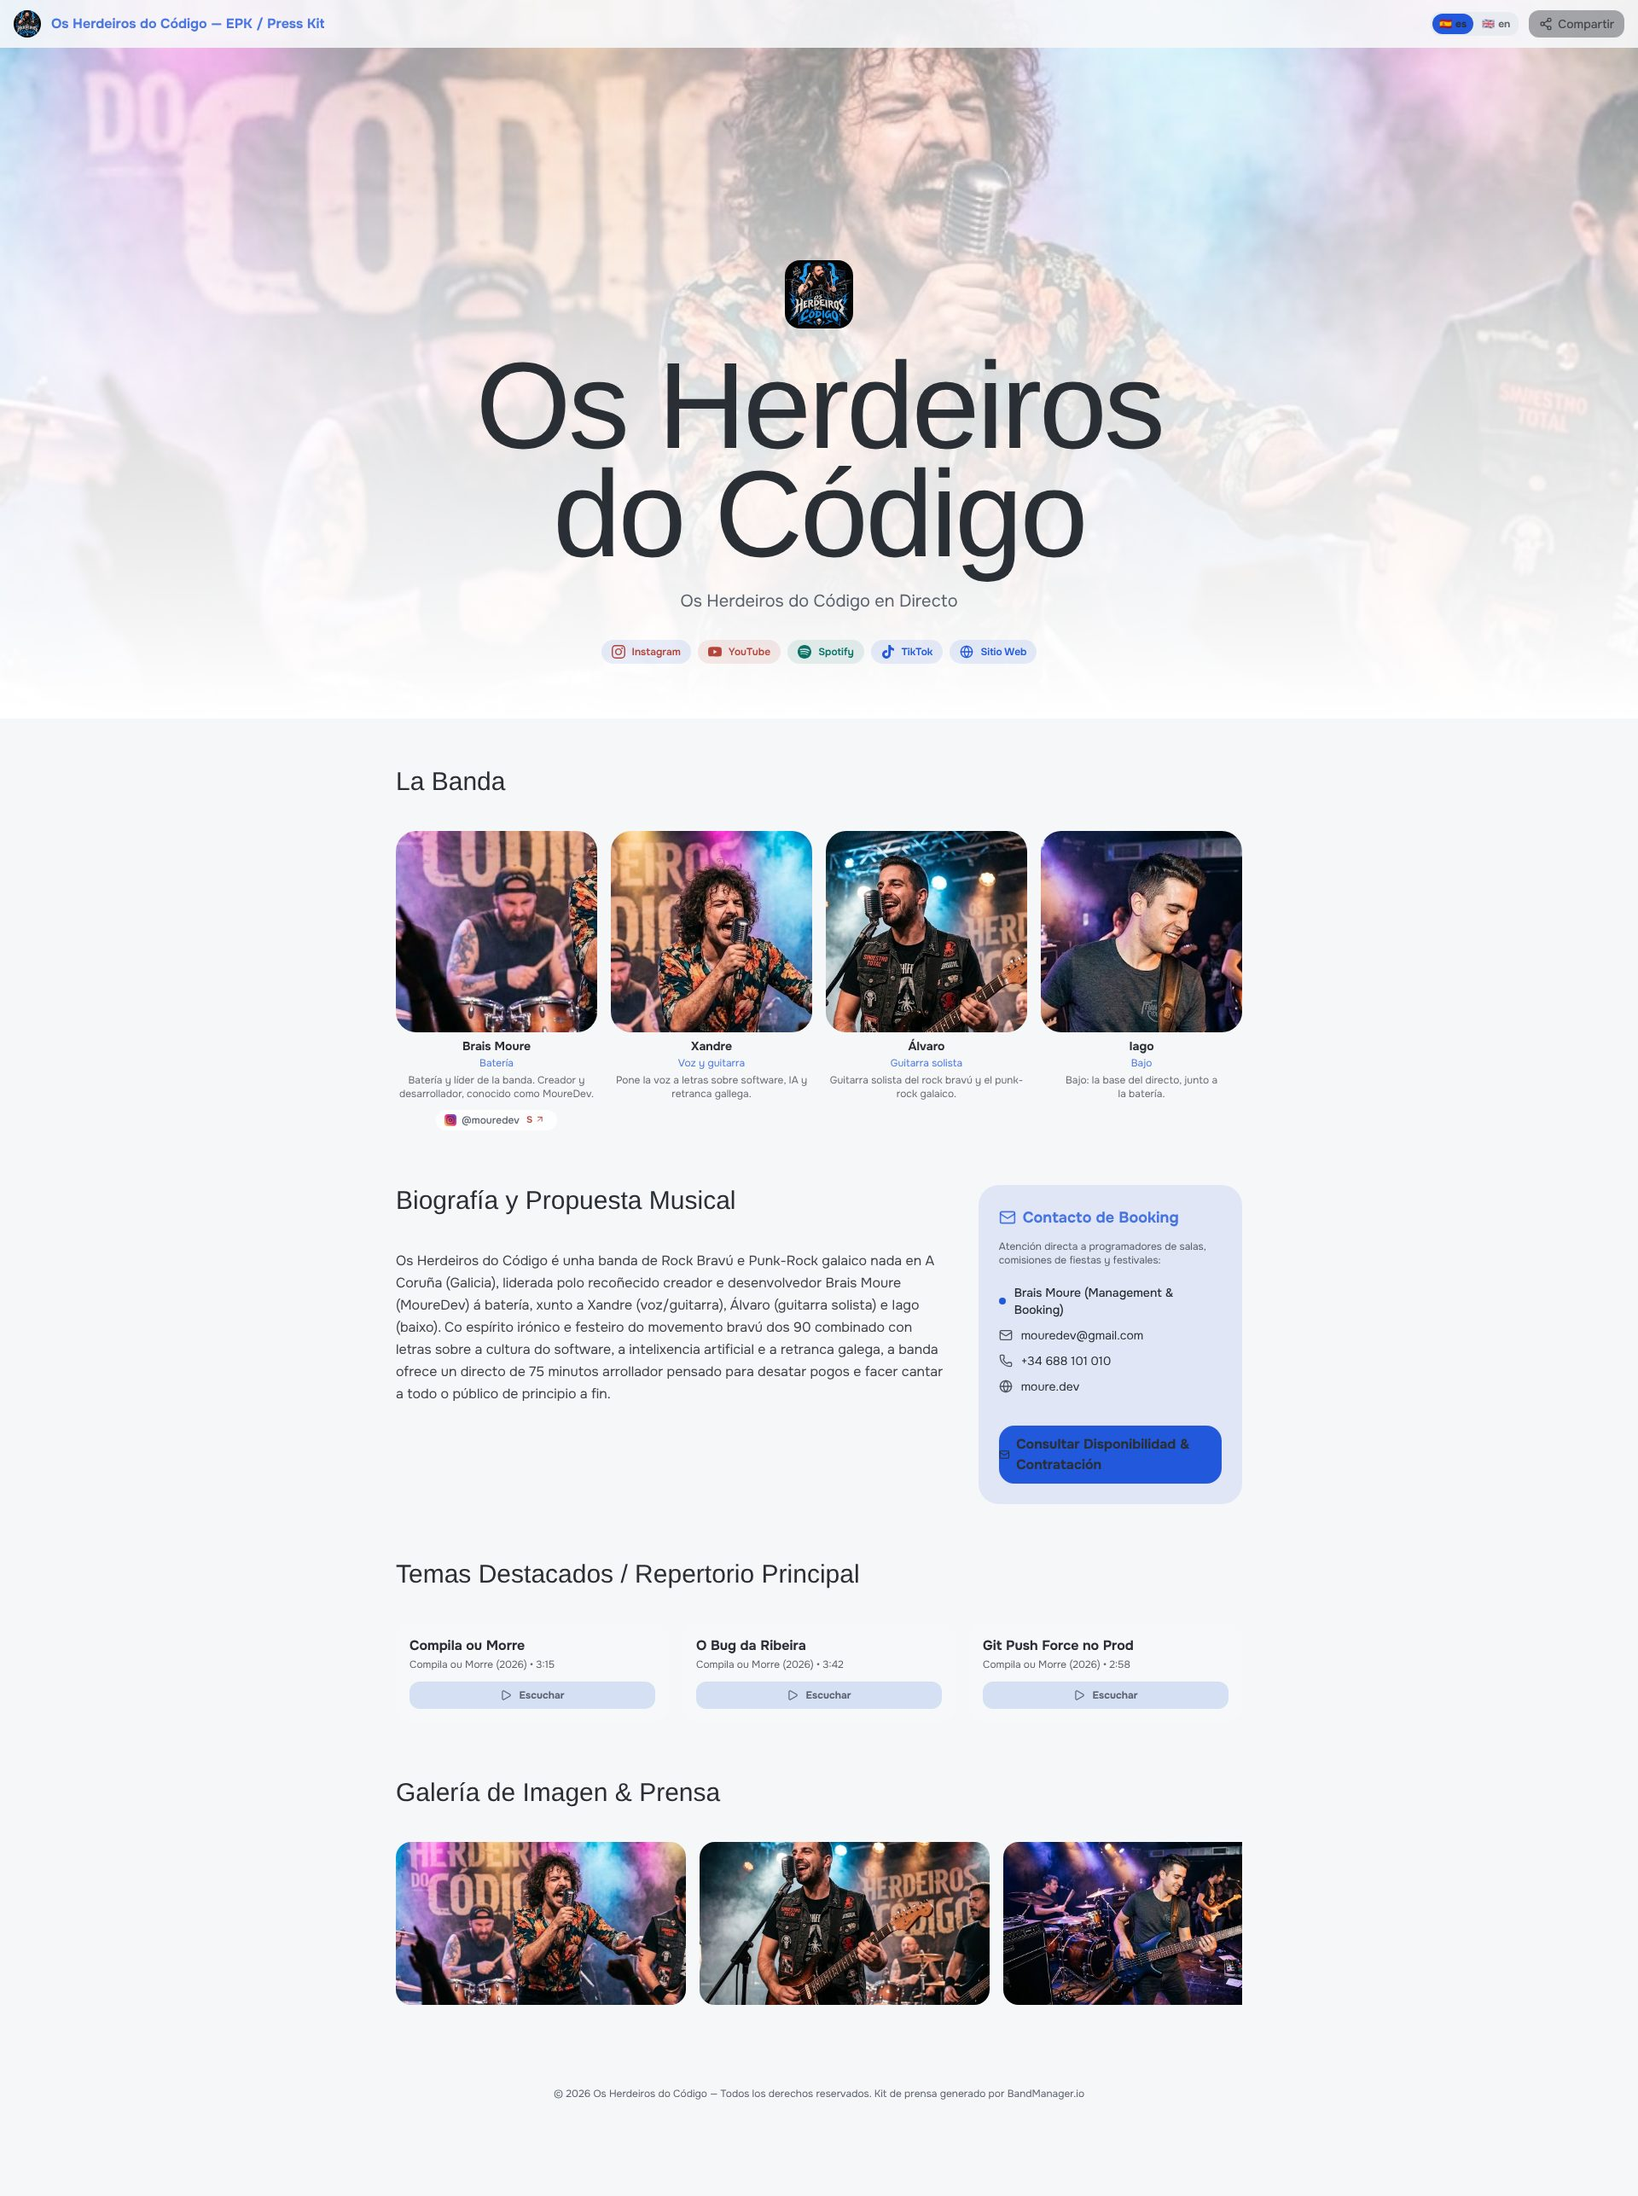
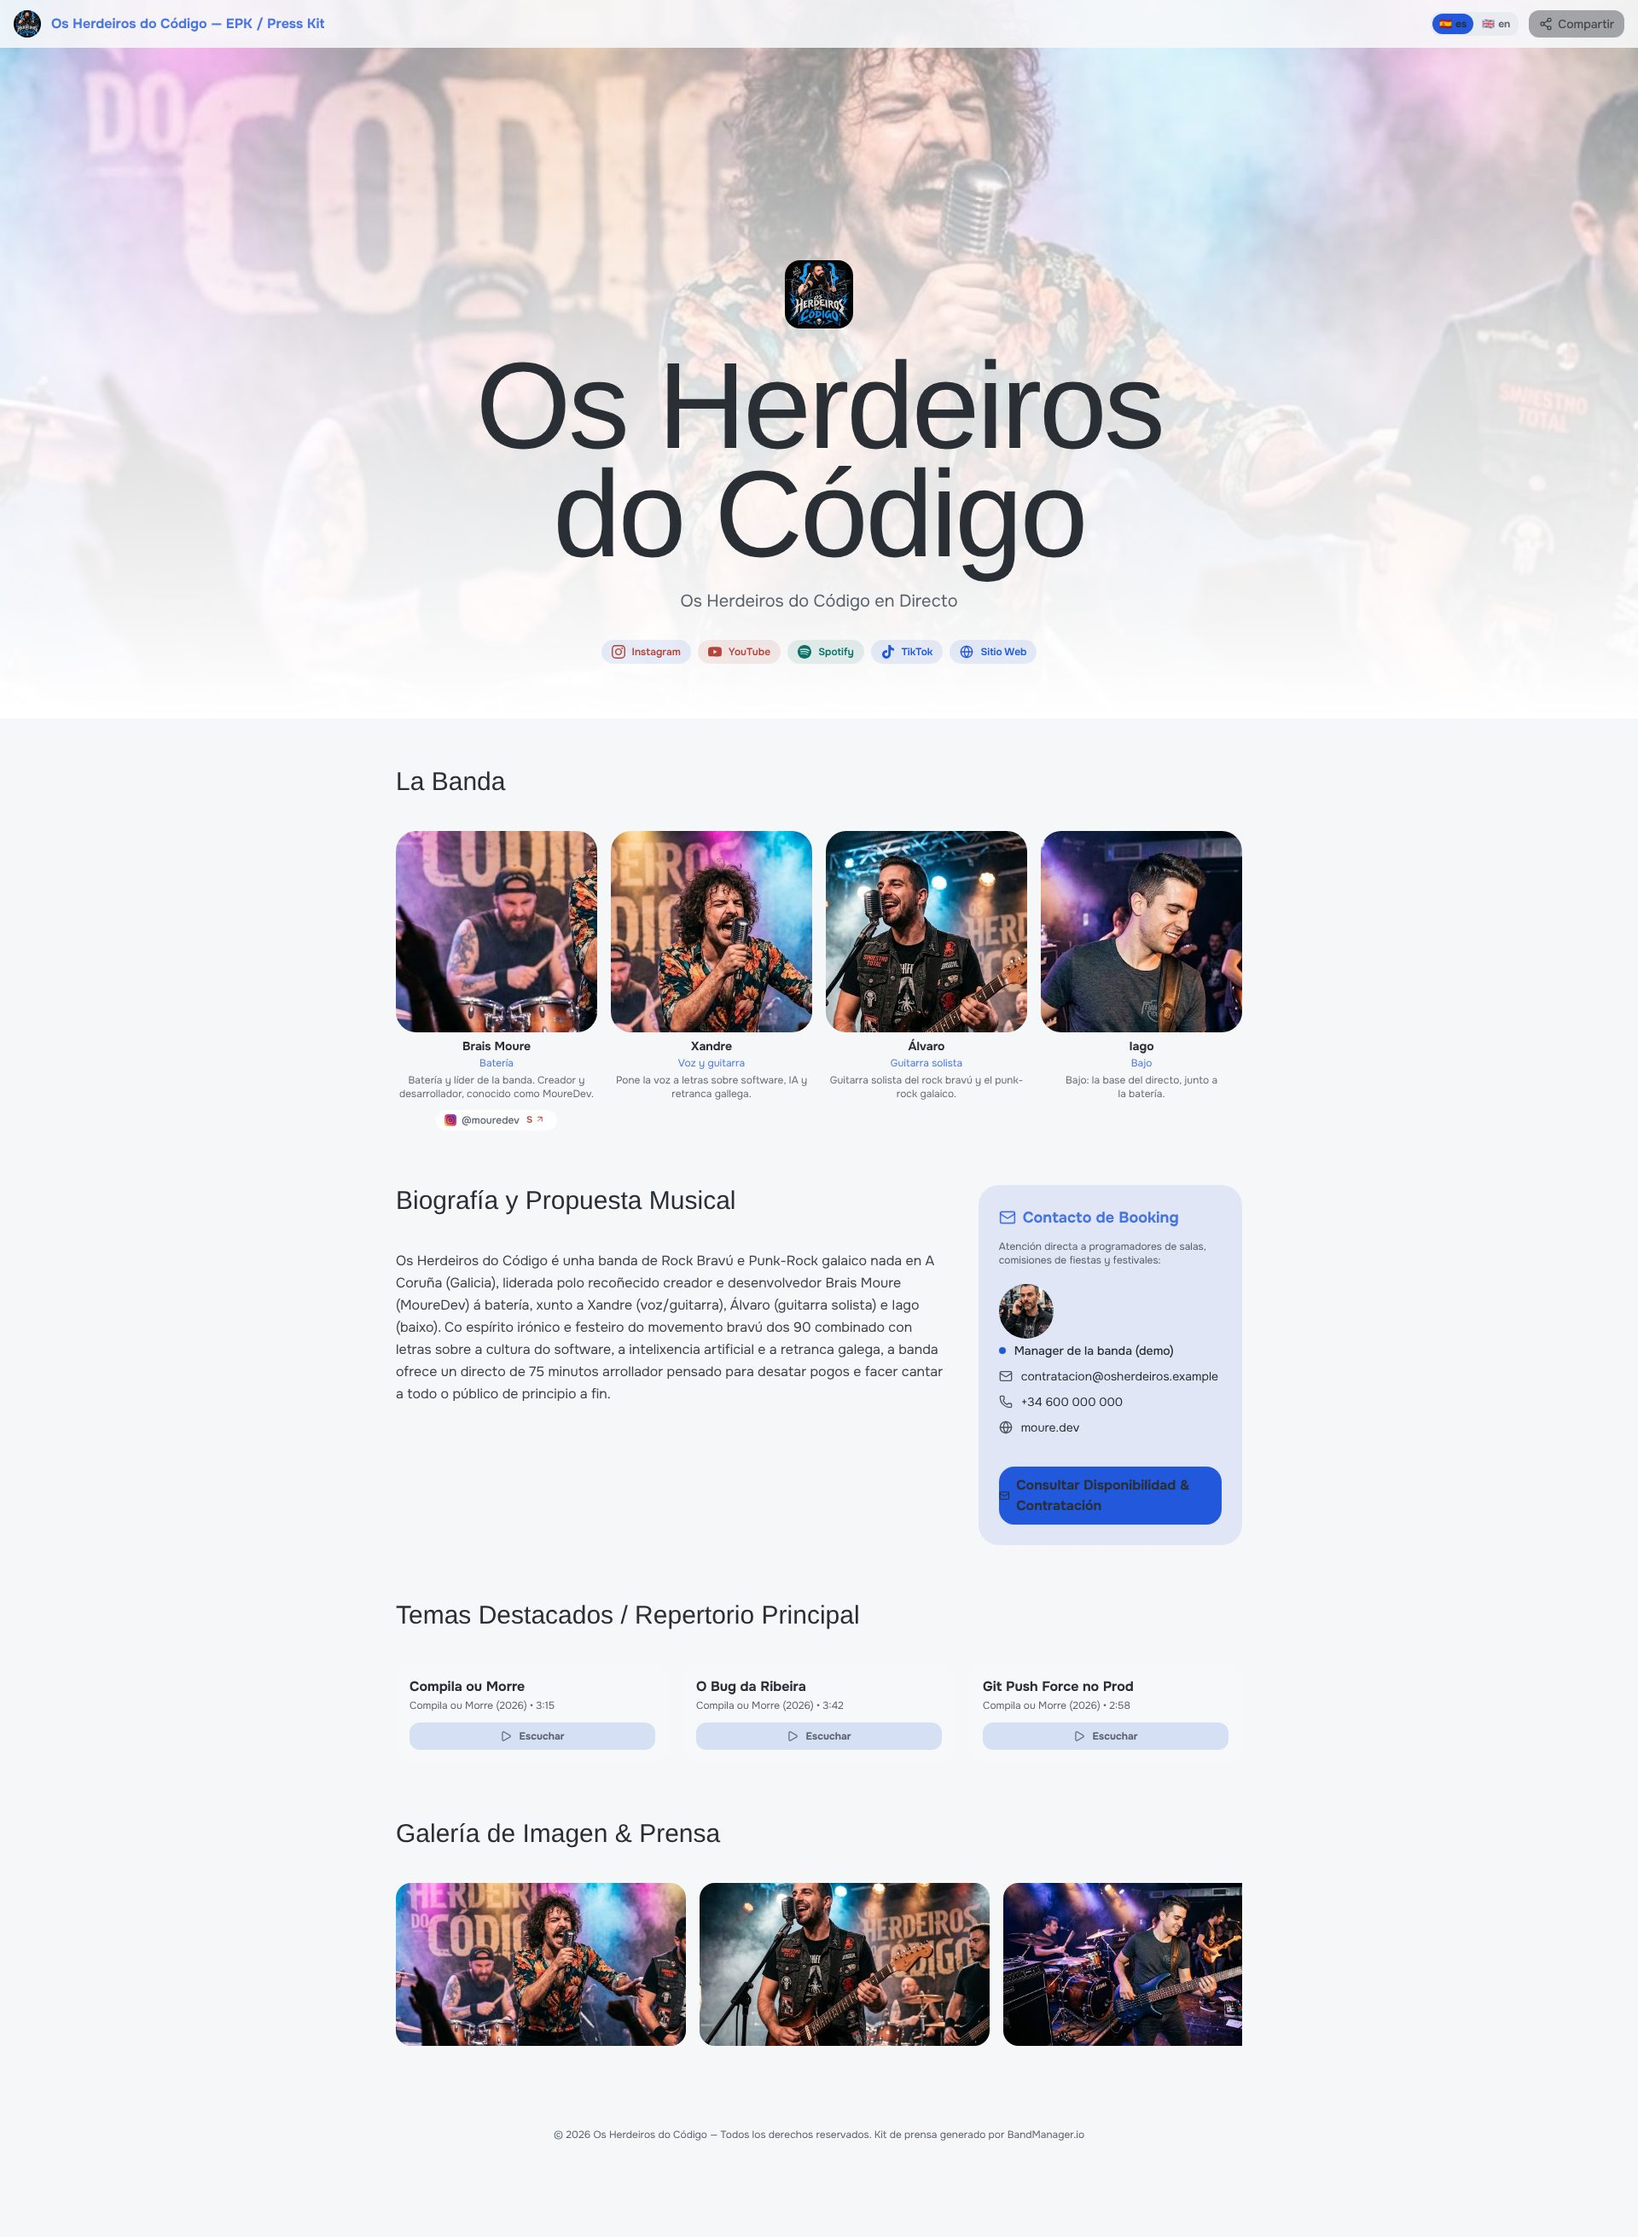
feat(epk): foto del contacto de booking en el editor y en el dossier público
Nuevo campo contactoBooking.fotoUrl. De paso se limpian los avisos de lint antiguos de types.ts, PublicEPK.tsx y EPKPerfilBlock.tsx.

Claude-Session: https://claude.ai/code/session_01Q2MnV2d8NLUxtL28TdSdge

diff --git a/src/components/epk/EPKPerfilBlock.tsx b/src/components/epk/EPKPerfilBlock.tsx
@@ -8,7 +8,6 @@ import {
   Upload,
   Loader2,
   Instagram,
-  User as UserIcon,
   Users,
   Globe,
   Music2,
@@ -18,9 +17,13 @@ import {
 } from "lucide-react";
 import { EPKConfig, BandMember } from "../../types";
 import { EPKBlockWrapper } from "./EPKBlockWrapper";
-import { EPK_BLOCKS, EPKBlockMeta } from "./epkBlocks";
+import { EPK_BLOCKS, EPKBlockMeta, EPKBlockId } from "./epkBlocks";
 import { ShowIcon } from '../ui/ShowIcon';
 import { Button, IconButton, Input, Textarea } from '../ui';
+import { uploadFileToServer } from "../../utils/audioStorage";
+
+const legacyFoto = (m: BandMember): string =>
+  (m as BandMember & { foto_url?: string }).foto_url || "";
 
 interface EPKPerfilBlockProps {
   config: EPKConfig;
@@ -39,7 +42,7 @@ interface EPKPerfilBlockProps {
   }>;
   prevBlock?: EPKBlockMeta | null;
   nextBlock?: EPKBlockMeta | null;
-  onNavigate?: (blockId: any) => void;
+  onNavigate?: (blockId: EPKBlockId) => void;
   onSave?: () => void;
   isAllView?: boolean;
 }
@@ -61,6 +64,36 @@ export const EPKPerfilBlock: React.FC<EPKPerfilBlockProps> = ({
   isAllView = false,
 }) => {
   const [similarBandInput, setSimilarBandInput] = useState("");
+  const [subiendoFotoContacto, setSubiendoFotoContacto] = useState(false);
+  const [errorFotoContacto, setErrorFotoContacto] = useState<string | null>(null);
+
+  const subirFotoContacto = async (file: File) => {
+    setSubiendoFotoContacto(true);
+    setErrorFotoContacto(null);
+    const guardar = (fotoUrl: string) =>
+      setConfig((prev) => ({
+        ...prev,
+        contactoBooking: { ...prev.contactoBooking, fotoUrl },
+      }));
+    try {
+      const url = await uploadFileToServer(file, {
+        bandId: config.bandId,
+        category: "contacto",
+      });
+      guardar(url);
+    } catch (err) {
+      setErrorFotoContacto(
+        err instanceof Error ? err.message : "No se pudo subir la foto. Inténtalo de nuevo.",
+      );
+      const reader = new FileReader();
+      reader.onload = (ev) => {
+        if (typeof ev.target?.result === "string") guardar(ev.target.result);
+      };
+      reader.readAsDataURL(file);
+    } finally {
+      setSubiendoFotoContacto(false);
+    }
+  };
 
   const handleAddSimilarBand = () => {
     const val = similarBandInput.trim();
@@ -449,9 +482,9 @@ export const EPKPerfilBlock: React.FC<EPKPerfilBlockProps> = ({
                     <div className="w-16 h-16 rounded-[var(--r-m)] overflow-hidden bg-[var(--surface)] flex items-center justify-center relative">
                       {subiendoFotoMiembro === m.id ? (
                         <Loader2 className="w-5 h-5 text-[var(--acc)] animate-spin" />
-                      ) : (m.fotoUrl && m.fotoUrl.trim() !== "") || ((m as any).foto_url && (m as any).foto_url.trim() !== "") ? (
+                      ) : (m.fotoUrl && m.fotoUrl.trim() !== "") || legacyFoto(m).trim() !== "" ? (
                         <img
-                          src={m.fotoUrl || (m as any).foto_url}
+                          src={m.fotoUrl || legacyFoto(m)}
                           alt={m.nombre || "Miembro"}
                           className="w-full h-full object-cover"
                         />
@@ -552,6 +585,48 @@ export const EPKPerfilBlock: React.FC<EPKPerfilBlockProps> = ({
           </h3>
 
           <div className="space-y-4">
+            <div className="flex items-start gap-4">
+              <label
+                className="shrink-0 cursor-pointer group"
+                title="Subir la foto de la persona de contacto"
+              >
+                <div className="w-20 h-20 rounded-[var(--r-pill)] overflow-hidden bg-[var(--sunken)] flex items-center justify-center">
+                  {subiendoFotoContacto ? (
+                    <Loader2 className="w-5 h-5 text-[var(--acc)] animate-spin" />
+                  ) : config.contactoBooking?.fotoUrl ? (
+                    <img
+                      src={config.contactoBooking.fotoUrl}
+                      alt={config.contactoBooking.nombre || "Contacto de booking"}
+                      className="w-full h-full object-cover"
+                    />
+                  ) : (
+                    <div className="flex flex-col items-center justify-center p-1 text-center">
+                      <Upload className="w-4 h-4 text-[var(--ink-2)] group-hover:text-[var(--acc)] transition mb-0.5" />
+                      <span className="text-micro text-[var(--ink-2)] font-medium">
+                        Foto
+                      </span>
+                    </div>
+                  )}
+                </div>
+                <input
+                  type="file"
+                  accept="image/*"
+                  className="hidden"
+                  onChange={(e) => {
+                    const f = e.target.files?.[0];
+                    if (f) void subirFotoContacto(f);
+                    e.target.value = "";
+                  }}
+                />
+              </label>
+              <p className="text-xs text-[var(--ink-2)] leading-snug pt-1">
+                La cara de quien atiende las contrataciones. Se enseña junto a
+                sus datos en el dossier público.
+                {errorFotoContacto && (
+                  <span className="block mt-1 text-[var(--alert)]">{errorFotoContacto}</span>
+                )}
+              </p>
+            </div>
             <div className="grid grid-cols-1 sm:grid-cols-3 gap-3">
               <div>
                 <label className="text-xs font-semibold text-[var(--ink-2)]">
@@ -687,7 +762,7 @@ export const EPKPerfilBlock: React.FC<EPKPerfilBlockProps> = ({
                         size="sm"
                         type="text"
                         placeholder={item.placeholder}
-                        value={(config.enlacesRedes as any)?.[item.key] || ""}
+                        value={(config.enlacesRedes as Record<string, string | undefined> | undefined)?.[item.key] || ""}
                         onChange={(e) => {
                           const updatedVal = e.target.value;
                           setConfig((prev) => {

diff --git a/src/components/PublicEPK.tsx b/src/components/PublicEPK.tsx
@@ -9,12 +9,9 @@ import {
   MapPin,
   Play,
   Pause,
-  Volume2,
   X,
   Music,
   Music2,
-  Radio,
-  Sparkles,
   Quote,
   Instagram,
   Globe,
@@ -41,6 +38,27 @@ import {
 import { getFontFamilyById } from "../config/bandFonts";
 import { ShowIcon } from './ui/ShowIcon';
 
+// Carga del servidor: snake_case y camelCase conviven según el origen del dato.
+type PublicSong = Song & {
+  album?: string;
+  album_disco?: string;
+  audio_principal_url?: string;
+  portada_url?: string;
+};
+
+interface PublicEpkPayload {
+  bandId?: string;
+  bandName?: string;
+  registeredBand?: { nombre_banda?: string };
+  epkConfig?: EPKConfig;
+  highlightedSongs?: PublicSong[];
+  upcomingConcerts?: Concert[];
+  [campo: string]: unknown;
+}
+
+const fotoDe = (p: unknown): string =>
+  typeof p === "string" ? p : (p as { url?: string } | null)?.url || "";
+
 interface PublicEPKProps {
   initialData?: {
     epkConfig: EPKConfig;
@@ -50,7 +68,7 @@ interface PublicEPKProps {
 }
 
 export const PublicEPK: React.FC<PublicEPKProps> = ({ initialData }) => {
-  const [epkData, setEpkData] = useState<any>(initialData || null);
+  const [epkData, setEpkData] = useState<PublicEpkPayload | null>(initialData || null);
   const [loading, setLoading] = useState(!initialData);
   const [copiedLink, setCopiedLink] = useState(false);
   const [playingSongId, setPlayingSongId] = useState<string | null>(null);
@@ -90,9 +108,11 @@ export const PublicEPK: React.FC<PublicEPKProps> = ({ initialData }) => {
             bandId: epkData?.bandId,
           }),
         }).catch(() => {});
-      } catch (_) {}
+      } catch {
+        // el seguimiento nunca debe romper la vista del dossier
+      }
     },
-    [trackingLeadId, trackingToken, epkData?.bandId]
+    [trackingLeadId, trackingToken, epkData]
   );
 
   const getPdfDownloadUrl = React.useCallback((rawUrl?: string) => {
@@ -195,7 +215,7 @@ export const PublicEPK: React.FC<PublicEPKProps> = ({ initialData }) => {
   // El endpoint público devuelve los temas tal cual salen de Supabase (snake_case), pero el
   // resto de la app usa camelCase. Sin normalizar,'albumDisco' salía undefined y caía al
   // literal"Sencillo", y el audio real que ya está subido no se reproducía nunca.
-  const songs: any[] = (epkData?.highlightedSongs || []).map((s: any) => ({
+  const songs: PublicSong[] = (epkData?.highlightedSongs || []).map((s) => ({
     ...s,
     albumDisco: s.albumDisco ?? s.album_disco ?? s.album,
     audioPrincipalUrl: s.audioPrincipalUrl ?? s.audio_principal_url,
@@ -237,11 +257,11 @@ export const PublicEPK: React.FC<PublicEPKProps> = ({ initialData }) => {
   const miembros = (config.miembros || [])
     .map((m) => ({
       ...m,
-      fotoUrl: m?.fotoUrl || (m as any)?.foto_url || "",
+      fotoUrl: m?.fotoUrl || (m as { foto_url?: string })?.foto_url || "",
     }))
     .filter((m) => m?.nombre || m?.fotoUrl);
   const normalizedBandPhotos = (config.bandPhotos || [])
-    .map((p) => (typeof p === "string" ? p : (p as any)?.url || ""))
+    .map(fotoDe)
     .filter((u) => typeof u === "string" && u.trim() !== "");
   // Foto de portada del hero: la primera de la Galería de Imagen & Prensa, si existe. Es lo
   // que hace que esto lea como la web real de una banda en directo y no como una tarjeta de
@@ -662,6 +682,14 @@ export const PublicEPK: React.FC<PublicEPKProps> = ({ initialData }) => {
             </p>
 
             <div className="space-y-2.5 pt-2 text-sm">
+              {config.contactoBooking?.fotoUrl && (
+                <img
+                  src={config.contactoBooking.fotoUrl}
+                  alt={config.contactoBooking.nombre || t("managerPorDefecto")}
+                  className="w-16 h-16 rounded-[var(--r-pill)] object-cover mb-1"
+                  loading="lazy"
+                />
+              )}
               <div className="flex items-center gap-2.5 font-medium">
                 <span
                   className={`w-2 h-2 rounded-[var(--r-pill)] ${styles.accentBtn.includes("fuchsia") ? "bg-[var(--tentative)]" : styles.accentBtn.includes("orange") ? "bg-[var(--acc)]" : "bg-[var(--acc)]"} shrink-0`}
@@ -791,7 +819,7 @@ export const PublicEPK: React.FC<PublicEPKProps> = ({ initialData }) => {
           {t("seccionTemas")}
         </h2>
         <div className="grid grid-cols-1 sm:grid-cols-2 md:grid-cols-3 gap-4">
-          {songs.map((song: any) => {
+          {songs.map((song) => {
             const sonando = playingSongId === song.id;
             return (
               <div
@@ -852,7 +880,7 @@ export const PublicEPK: React.FC<PublicEPKProps> = ({ initialData }) => {
 
   const renderGaleria = () => {
     const validPhotos = (config.bandPhotos || [])
-      .map((p) => (typeof p === "string" ? p : (p as any)?.url || ""))
+      .map(fotoDe)
       .filter((u) => typeof u === "string" && u.trim() !== "");
     if (validPhotos.length === 0) return null;
     return (

diff --git a/presentacion/index.html b/presentacion/index.html
@@ -406,7 +406,7 @@
     <h2>Así lo ve la sala: el dossier de Os Herdeiros.</h2>
     <ul>
       <li>Una página con la banda, sus miembros, la biografía, los temas para escuchar y la galería de fotos, con el estilo que elija la banda.</li>
-      <li>Un botón de contratación con el contacto de booking, y todo en español e inglés.</li>
+      <li>Un botón de contratación con el contacto de booking, ahora con foto: la sala sabe con quién habla. Todo en español e inglés.</li>
       <li>Se comparte con un enlace. El Redactor lo mete en cada correo y la app cuenta cuántas veces se abre.</li>
     </ul>
   </div>

diff --git a/src/types.ts b/src/types.ts
@@ -173,7 +173,7 @@ export interface EmailMessage {
   };
   resumen_ejecutivo?: string;
   sugerencia_estrategia?: string;
-  analisis_ia?: any;
+  analisis_ia?: unknown;
 }
 
 export interface PitchFeedbackLog {
@@ -768,6 +768,8 @@ export interface EPKConfig {
     nombre: string;
     email: string;
     telefono: string;
+    /** Foto de la persona de contacto (se enseña en el dossier público). */
+    fotoUrl?: string;
   };
   temasDestacadosIds: string[];
   audioPreview?: {
